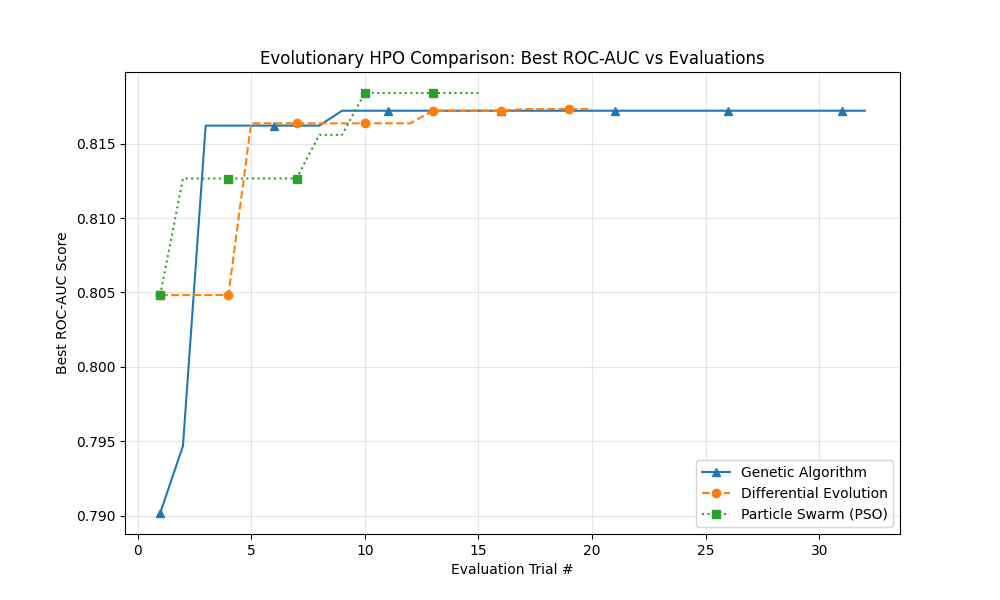
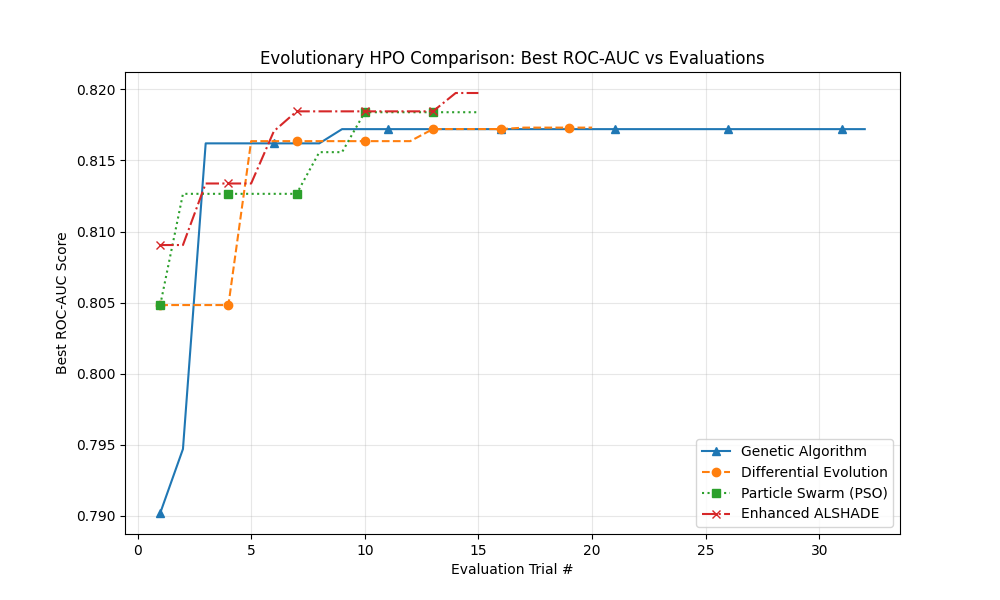
FEAT: Add Alshade to HPO comparison plot

diff --git a/src/analysis/plot_evo_comparison.py b/src/analysis/plot_evo_comparison.py
@@ -36,6 +36,12 @@ def load_hpo_results(filepath, method_name):
         if "all_results" in data:
             scores = [r["roc_auc"] for r in data["all_results"]]
             
+    elif method_name == "enhanced_alshade":
+        # "all_results" is list of dicts
+        if "all_results" in data:
+            scores = [r["roc_auc"] for r in data["all_results"]]
+            
+            
     return scores
 
 def get_best_so_far(scores):
@@ -77,6 +83,9 @@ def plot_evo_comparison():
     # PSO (Load from file)
     pso_scores = load_hpo_results("experiments/hpo_results/pso.json", "pso")
     
+    # Enhanced ALSHADE (Load from file)
+    alshade_scores = load_hpo_results("experiments/hpo_results/raw_adam_alshade.json", "enhanced_alshade")
+    
     # Normalize lengths? They ran for different generations/pop sizes in our tests.
     # GA: 32 evals. DE: 15 evals (pop 5, gen 3). PSO: 15 evals.
     # We will plot by "Evaluation Number".
@@ -84,12 +93,14 @@ def plot_evo_comparison():
     gen_cum = get_best_so_far(gen_scores)
     de_cum = get_best_so_far(de_scores)
     pso_cum = get_best_so_far(pso_scores)
+    alshade_cum = get_best_so_far(alshade_scores)
     
     plt.figure(figsize=(10, 6))
     
     plt.plot(range(1, len(gen_cum)+1), gen_cum, label='Genetic Algorithm', marker='^', linestyle='-', markevery=5)
     plt.plot(range(1, len(de_cum)+1), de_cum, label='Differential Evolution', marker='o', linestyle='--', markevery=3)
     plt.plot(range(1, len(pso_cum)+1), pso_cum, label='Particle Swarm (PSO)', marker='s', linestyle=':', markevery=3)
+    plt.plot(range(1, len(alshade_cum)+1), alshade_cum, label='Enhanced ALSHADE', marker='x', linestyle='-.', markevery=3)
     
     plt.title("Evolutionary HPO Comparison: Best ROC-AUC vs Evaluations")
     plt.xlabel("Evaluation Trial #")
